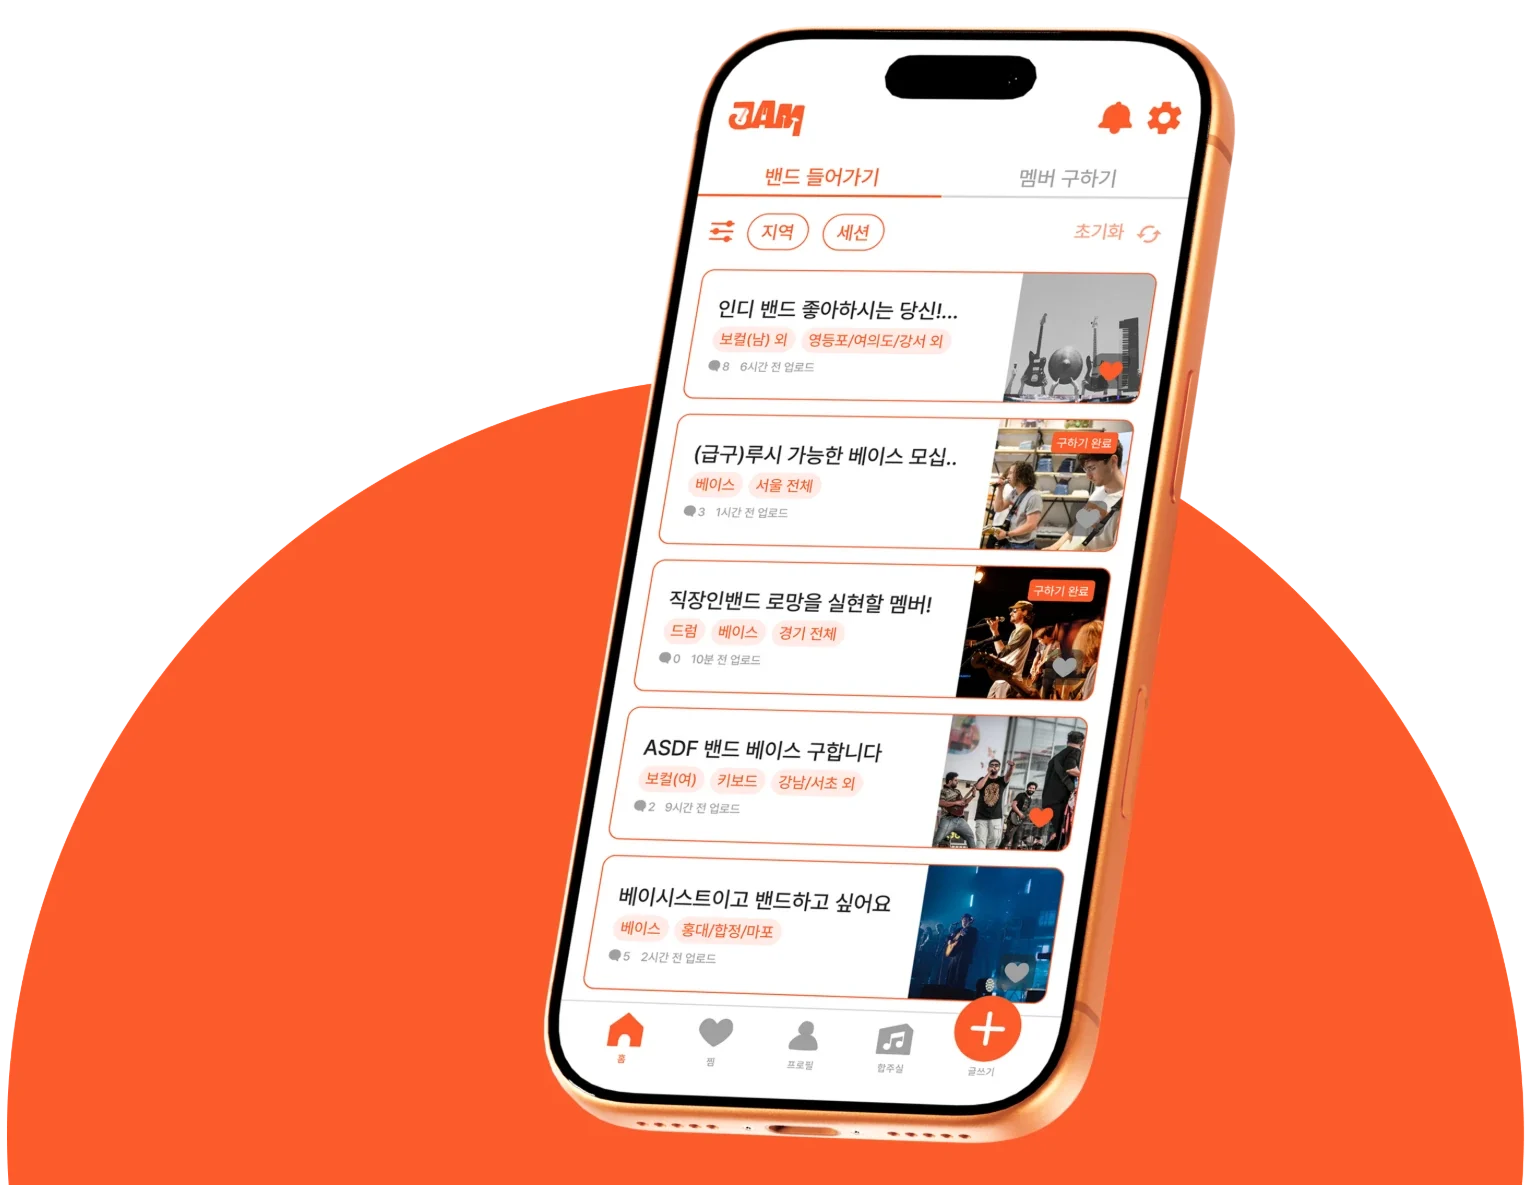
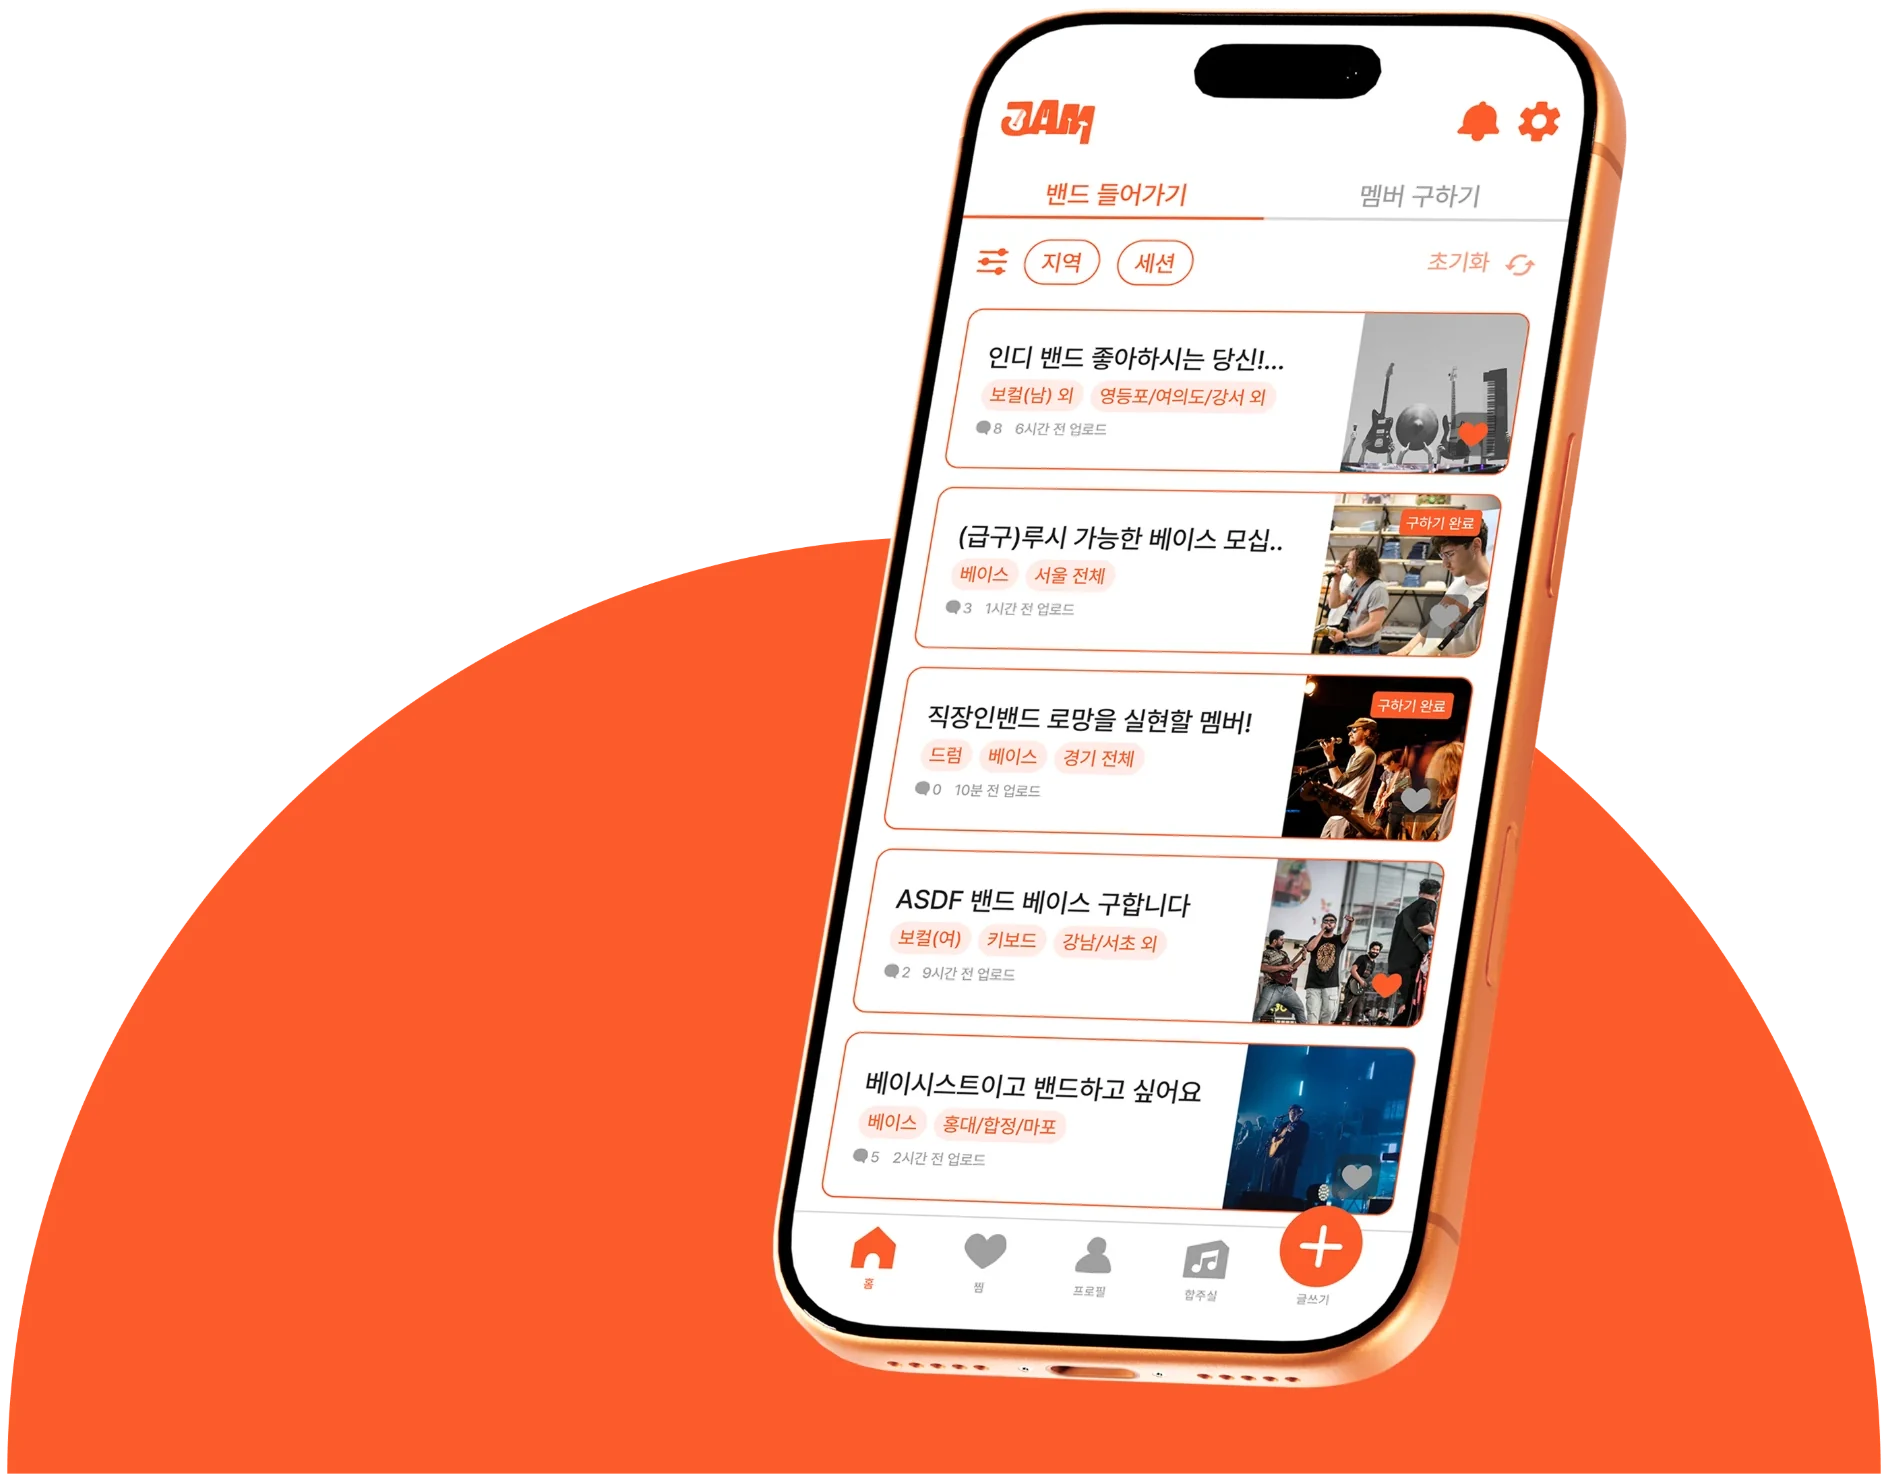
Use the new hero image in the two-column intro layout
Back to text on the left and the image on the right, now with the new
phone-on-circle image (transparent, trimmed) sitting flush on the section's
bottom edge. Mobile stacks text over image. Bump style.css to v=14.

Claude-Session: https://claude.ai/code/session_0192UTg1didZtkWph53mYZRp

Changed region(s): [[0.0, 0.0, 1.0, 0.9679], [0.0, 0.9679, 1.0, 1.0]]

diff --git a/style.css b/style.css
@@ -1032,10 +1032,17 @@ body {
 }
 
 /* ===== Benefits ===== */
-/* ===== Intro: 가운데 제목 + 앱 화면 (주황 원이 섹션 아래 끝에서 잘려요) ===== */
+/* ===== Intro: 왼쪽 제목 + 오른쪽 앱 화면 (주황 원이 섹션 아래 끝에서 잘려요) ===== */
 .intro {
-  padding-top: 72px;
-  text-align: center;
+  display: grid;
+  grid-template-columns: 1fr 1fr;
+  align-items: end;
+  gap: 40px;
+  padding-top: 56px;
+}
+
+.intro-text {
+  align-self: center;
 }
 
 .intro-title {
@@ -1055,8 +1062,8 @@ body {
 
 .intro-shot {
   width: 100%;
-  max-width: 820px;
-  margin: 40px auto 0;
+  max-width: 620px;
+  justify-self: end;
 }
 
 .intro-shot img,
@@ -1508,10 +1515,15 @@ body {
 }
 
 @media (max-width: 768px) {
-  .intro { padding-top: 40px; }
+  .intro {
+    grid-template-columns: 1fr;
+    gap: 24px;
+    padding-top: 40px;
+    text-align: center;
+  }
   .intro-title { font-size: 36px; margin-bottom: 12px; }
   .intro-body { font-size: 17px; }
-  .intro-shot { margin-top: 24px; }
+  .intro-shot { justify-self: center; }
 
   .benefits { padding: 56px 0; }
   .benefits .headline { margin-bottom: 32px; }

diff --git a/index.html b/index.html
@@ -32,7 +32,7 @@
     />
     <link
       rel="stylesheet"
-      href="https://thimxokeit.github.io/letsjam/style.css?v=13"
+      href="https://thimxokeit.github.io/letsjam/style.css?v=14"
     />
 
 
@@ -292,8 +292,8 @@
         <div class="intro-shot">
           <img
             src="https://thimxokeit.github.io/letsjam/assets/hero-app.webp"
-            width="1532"
-            height="1185"
+            width="1888"
+            height="1474"
             alt="JAM 앱 홈 화면: 밴드 들어가기 탭의 모집 글 목록"
           />
         </div>

diff --git a/community-policy/index.html b/community-policy/index.html
@@ -19,7 +19,7 @@
       rel="stylesheet"
       href="https://cdn.jsdelivr.net/gh/orioncactus/pretendard/dist/web/static/pretendard.css"
     />
-    <link rel="stylesheet" href="https://thimxokeit.github.io/letsjam/style.css?v=13" />
+    <link rel="stylesheet" href="https://thimxokeit.github.io/letsjam/style.css?v=14" />
 
     <!-- Google tag (gtag.js) -->
     <script async src="https://www.googletagmanager.com/gtag/js?id=G-Z0JRGB5LYK"></script>

diff --git a/about/index.html b/about/index.html
@@ -20,7 +20,7 @@
       href="https://cdn.jsdelivr.net/gh/orioncactus/pretendard/dist/web/static/pretendard.css"
     />
 
-    <link rel="stylesheet" href="https://thimxokeit.github.io/letsjam/style.css?v=13" />
+    <link rel="stylesheet" href="https://thimxokeit.github.io/letsjam/style.css?v=14" />
     <!-- Google tag (gtag.js) -->
     <script async src="https://www.googletagmanager.com/gtag/js?id=G-Z0JRGB5LYK"></script>
     <script>

diff --git a/terms/index.html b/terms/index.html
@@ -20,7 +20,7 @@
       href="https://cdn.jsdelivr.net/gh/orioncactus/pretendard/dist/web/static/pretendard.css"
     />
 
-   <link rel="stylesheet" href="https://thimxokeit.github.io/letsjam/style.css?v=13" />
+   <link rel="stylesheet" href="https://thimxokeit.github.io/letsjam/style.css?v=14" />
     <!-- Google tag (gtag.js) -->
     <script async src="https://www.googletagmanager.com/gtag/js?id=G-Z0JRGB5LYK"></script>
     <script>

diff --git a/privacy/index.html b/privacy/index.html
@@ -20,7 +20,7 @@
       rel="stylesheet"
       href="https://cdn.jsdelivr.net/gh/orioncactus/pretendard/dist/web/static/pretendard.css"
     />
-    <link rel="stylesheet" href="https://thimxokeit.github.io/letsjam/style.css?v=13" />
+    <link rel="stylesheet" href="https://thimxokeit.github.io/letsjam/style.css?v=14" />
     <!-- Google tag (gtag.js) -->
     <script
       async
